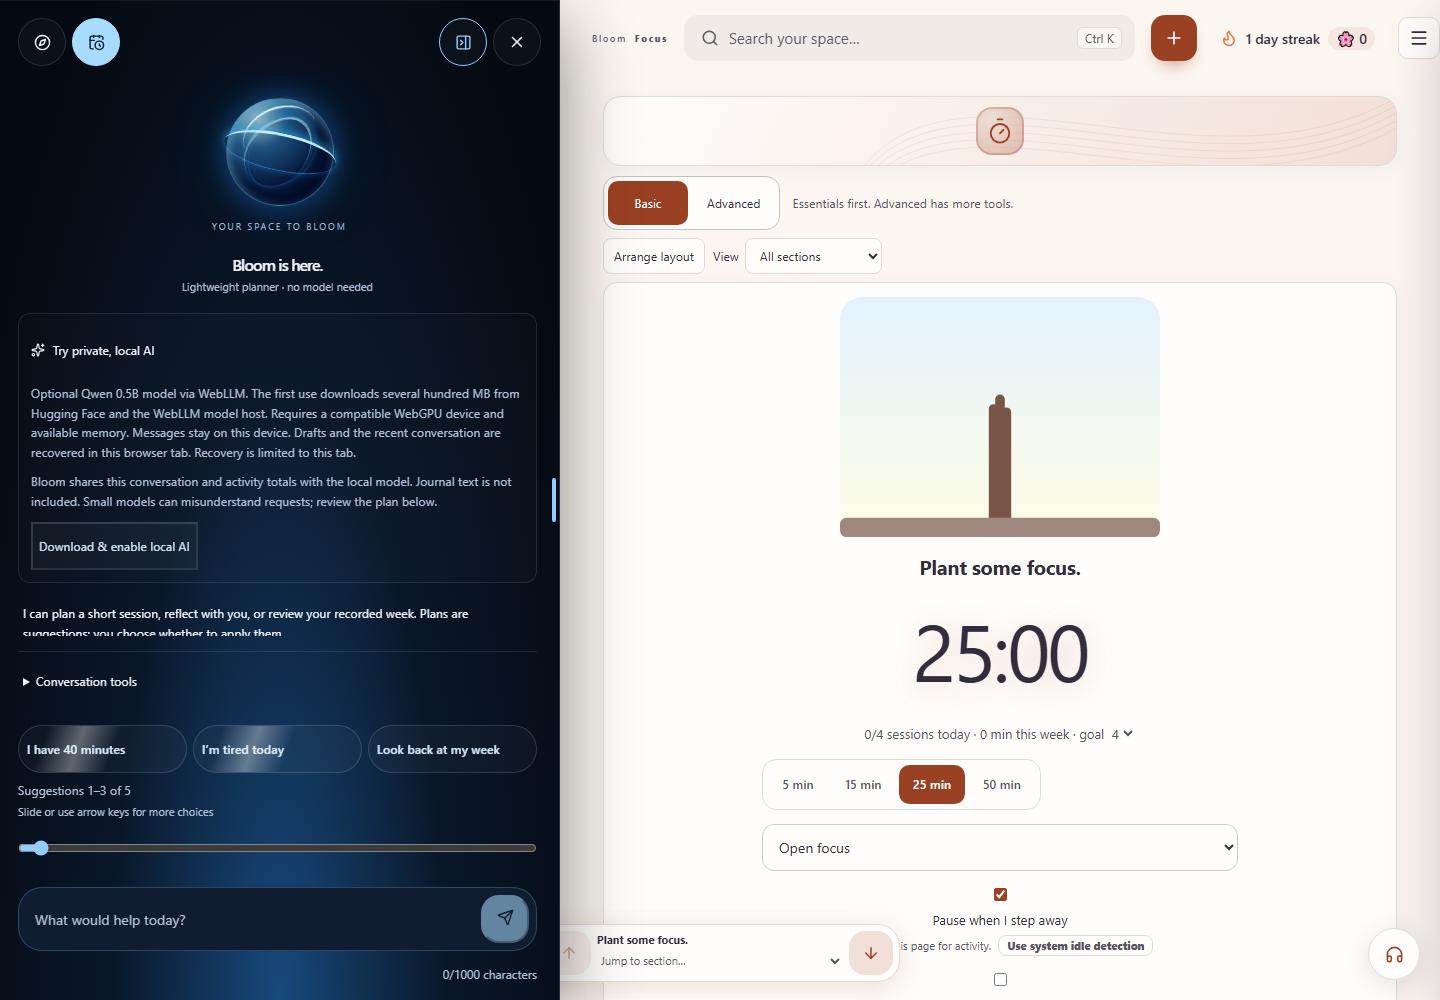
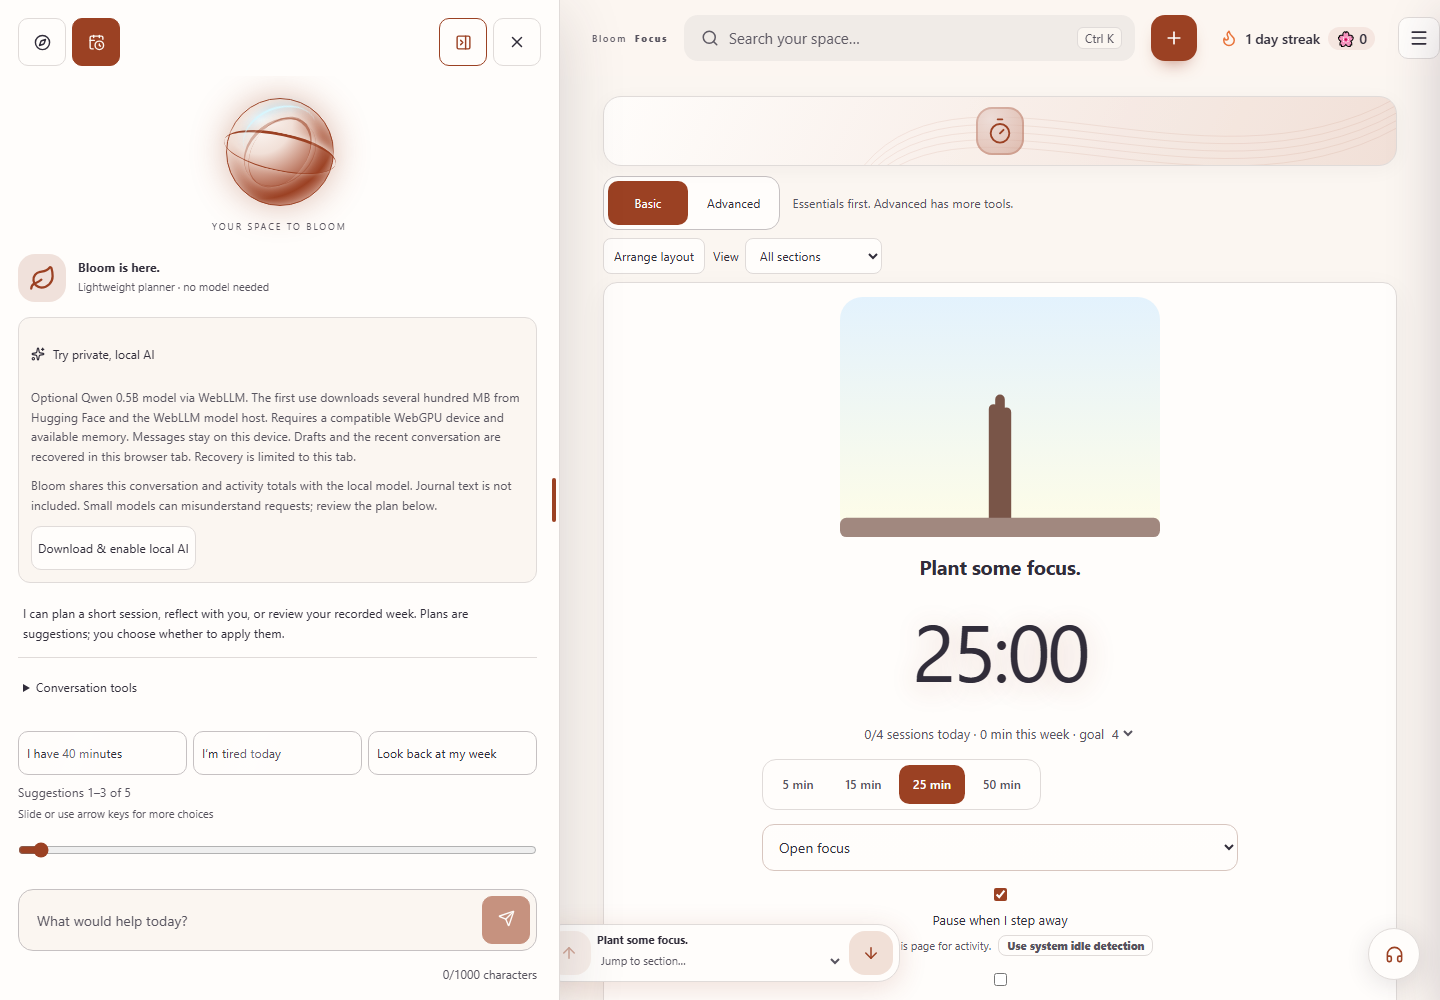
Match Bloom chat to the app theme with shared control styles

diff --git a/src/styles/bloom-surfaces.css b/src/styles/bloom-surfaces.css
@@ -1,4 +1,44 @@
 /* Shared surfaces stay usable by wheel, touch and keyboard without scrollbar chrome. */
+/* Portaled chat and page actions share the same control recipe. */
+:is(.app-shell, .bc-panel) :is(.feature-primary, .feature-secondary, .quiet-button, .bg-chip),
+.bc-panel :is(.bc-head-actions button, .companion-prompts button, .companion-composer button) {
+  min-height: 44px;
+  border: 1px solid var(--border-color);
+  border-radius: var(--radius-md, 10px);
+  background: var(--bg-surface);
+  color: var(--text-primary);
+  font: inherit;
+  transition: background 160ms ease, border-color 160ms ease;
+}
+:is(.app-shell, .bc-panel) .feature-primary,
+.bc-panel :is(.companion-composer button, .bc-head-actions button[aria-selected='true']) {
+  background: var(--accent-color);
+  border-color: var(--accent-color);
+  color: var(--text-on-accent, var(--bg-primary));
+}
+:is(.app-shell, .bc-panel) :is(.feature-secondary, .quiet-button, .bg-chip):hover:not(:disabled),
+.bc-panel :is(.bc-head-actions button, .companion-prompts button):hover:not(:disabled) {
+  background: var(--accent-soft);
+  border-color: var(--accent-color);
+}
+.bc-panel :is(button, input, summary):focus-visible {
+  outline: 3px solid var(--focus-ring);
+  outline-offset: 3px;
+}
+.bc-panel.uses-app-theme {
+  background: var(--bg-surface);
+  border-color: var(--border-color);
+}
+.bc-panel.uses-app-theme .companion-composer {
+  padding: 6px;
+  border: 1px solid var(--border-strong);
+  border-radius: var(--radius-lg, 15px);
+  background: var(--bg-primary);
+}
+.bc-panel.uses-app-theme .companion-composer input { border: 0; background: transparent; }
+.bc-panel.uses-app-theme .companion-message { border: 1px solid var(--border-color); background: var(--bg-primary); }
+.bc-panel.uses-app-theme .companion-message.user { background: var(--accent-soft); }
+.bc-panel.uses-app-theme .companion-ai-options { background: var(--bg-primary); border-color: var(--border-color); }
 html,
 body,
 body * {

diff --git a/src/companion/chatAppearance.tsx b/src/companion/chatAppearance.tsx
@@ -24,7 +24,7 @@ export function useChatAppearance() {
     return avatarStyles.some((style) => style.id === value) ? value as AvatarStyle : 'glass'
   }, () => 'glass' as ChatAvatar)
   const followTheme = useSyncExternalStore(subscribe,
-    () => read('bloom-chat-follow-theme') === '1', () => false)
+    () => read('bloom-chat-follow-theme') !== '0', () => true)
   return { avatar, followTheme }
 }
 
